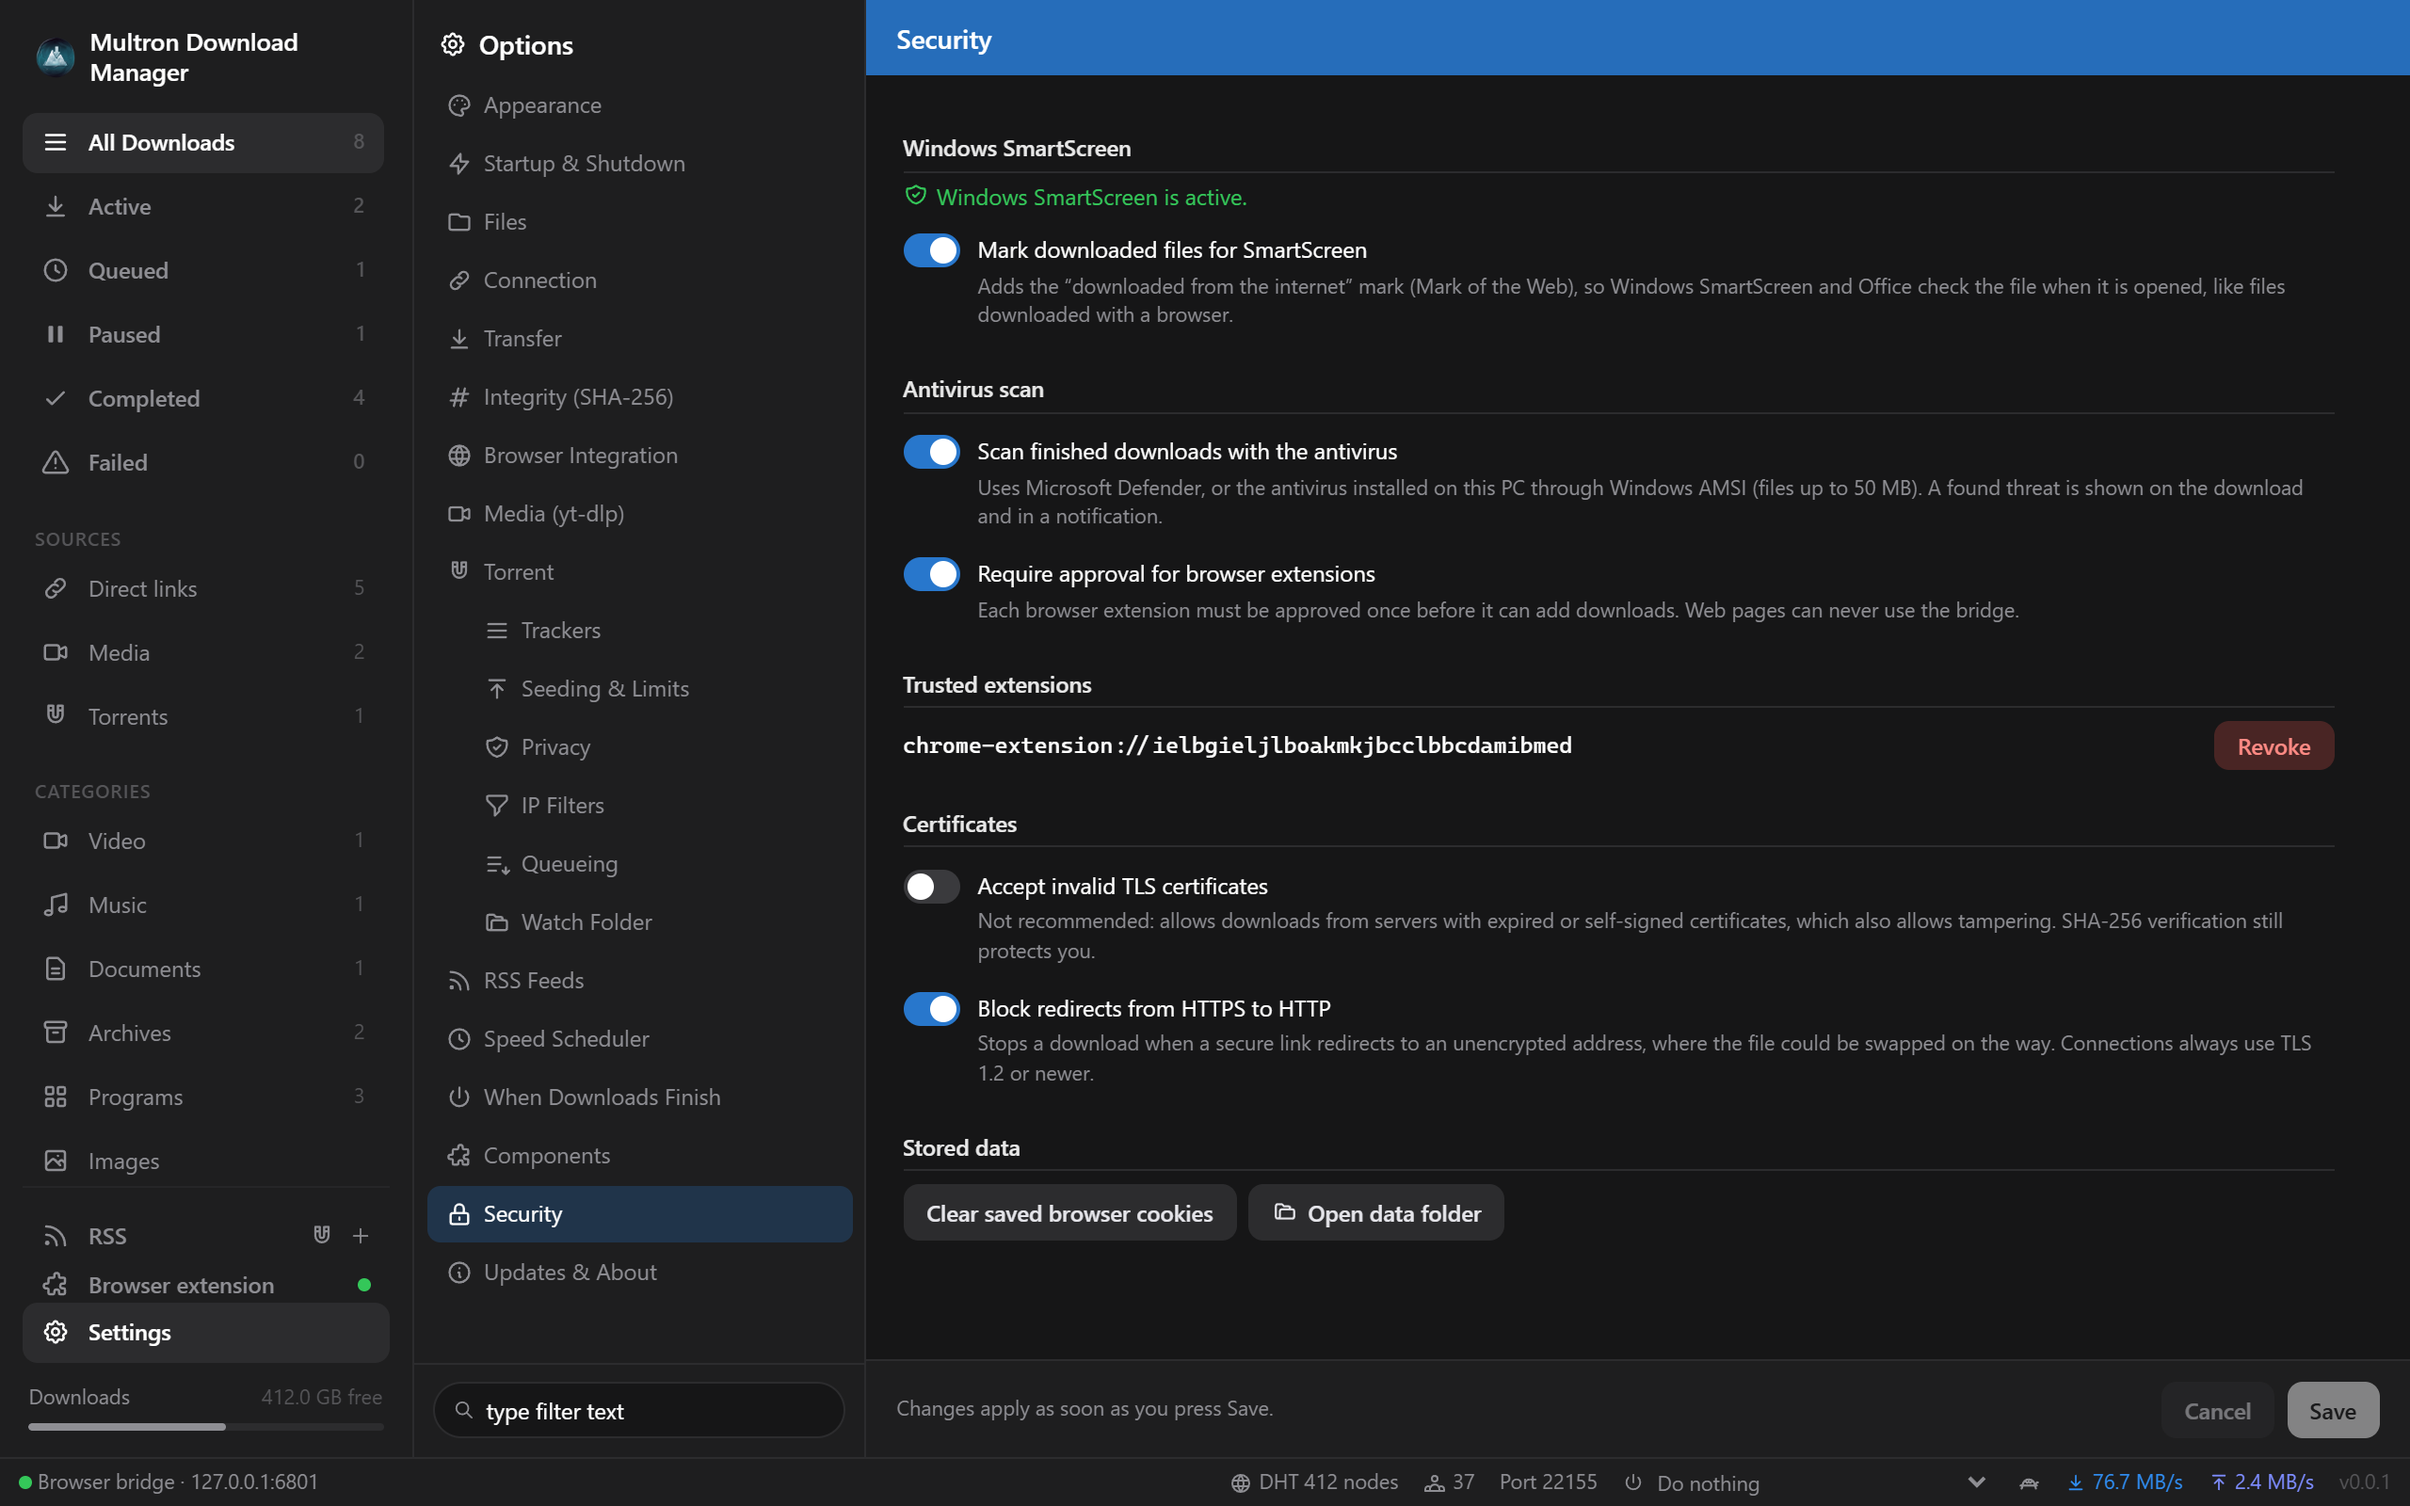
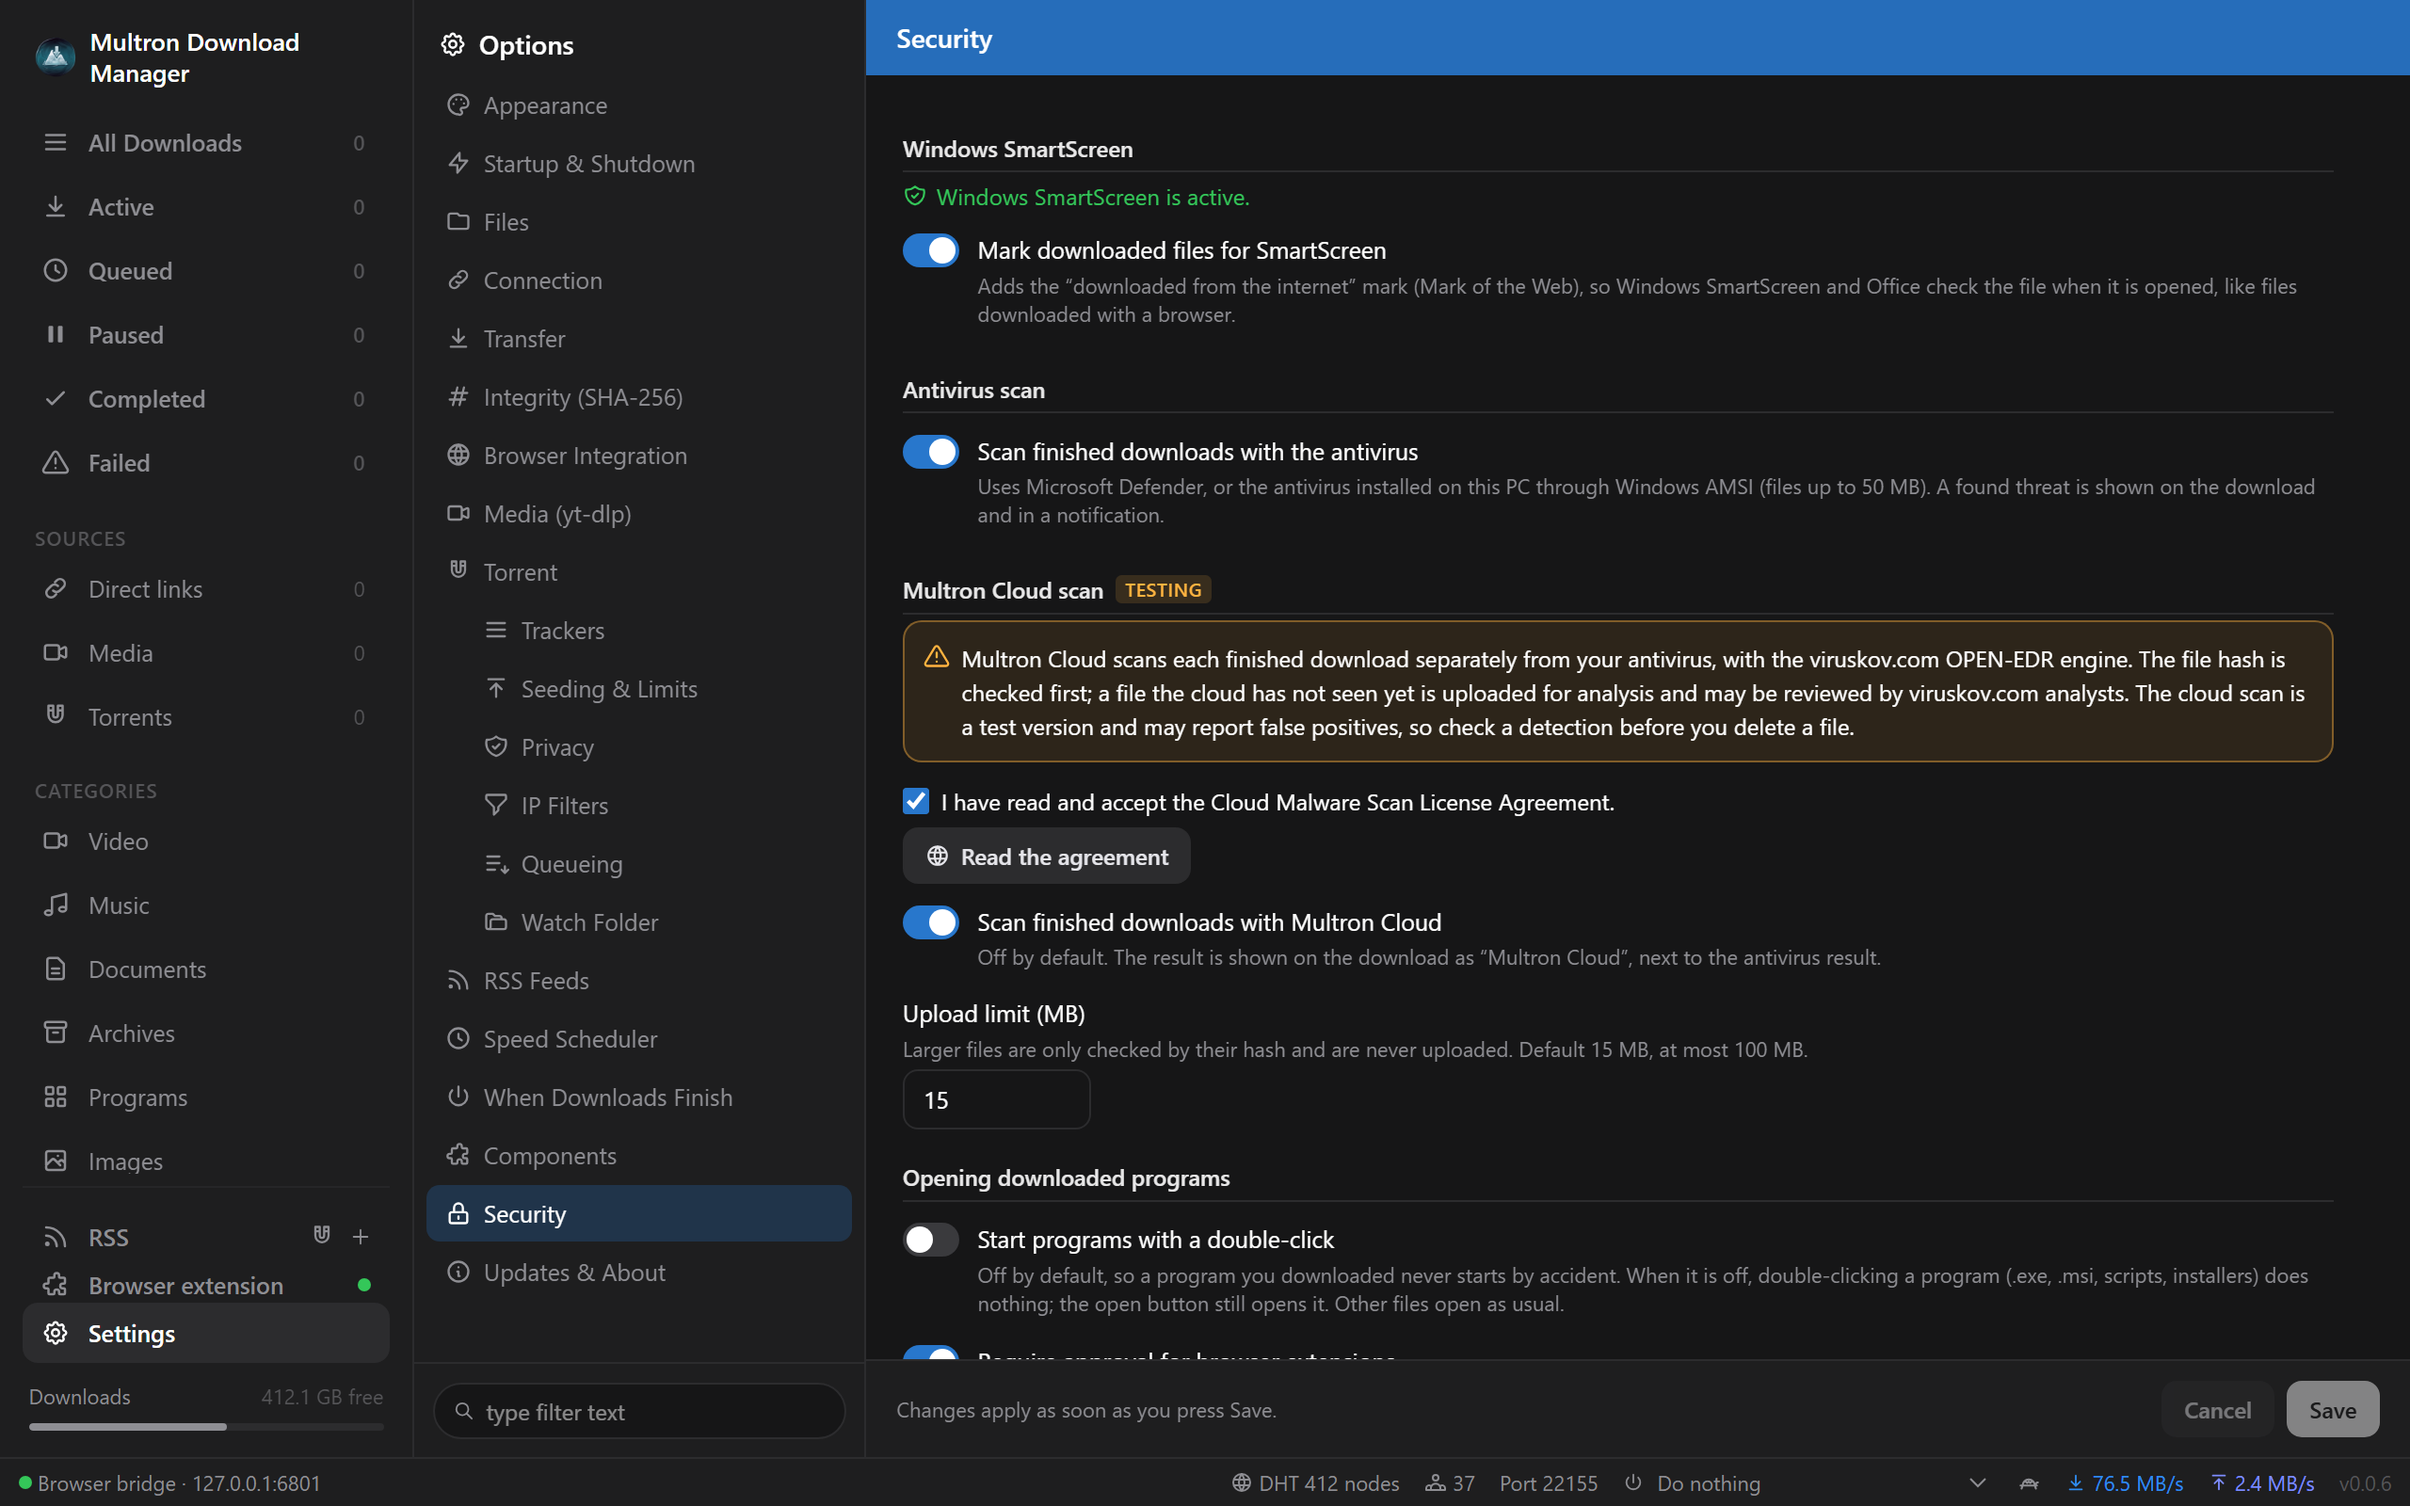
Update security screenshots version 0.0.6

diff --git a/README.md b/README.md
@@ -49,8 +49,8 @@
 |---|---|
 | <img src="docs/screenshots/downloads-dark.png" alt="Downloads with the segment view" /> | <img src="docs/screenshots/torrent-dark.png" alt="Torrent seeding with tracker, DHT and LSD sources" /> |
 | **Downloads** — every connection writes to its own range; the progress bar fills from start to end, and the *Segments* tab shows each connection’s range live. | **Torrents** — seeding with tracker, DHT and LSD sources, peers, pieces and more. |
-| <img src="docs/screenshots/settings-light.png" alt="Appearance settings in the light theme" /> | <img src="docs/screenshots/security-dark.png" alt="Security settings with SmartScreen, antivirus and TLS options" /> |
-| **Appearance** — light, dark or system theme, accent colours and transparency. | **Security** — SmartScreen mark, antivirus scan, extension approval, TLS and redirect rules. |
+| <img src="docs/screenshots/settings-light.png" alt="Appearance settings in the light theme" /> | <img src="docs/screenshots/security-dark.png" alt="Security settings with SmartScreen, antivirus, Multron Cloud scan and TLS options" /> |
+| **Appearance** — light, dark or system theme, accent colours and transparency. | **Security** — SmartScreen mark, antivirus scan, Multron Cloud scan (testing), safe opening of programs, extension approval, TLS and redirect rules. |
 | <img src="docs/screenshots/downloads-light-tr.png" alt="The app in Turkish with the light theme" /> | |
 | **12 languages** — follows the system language (Turkish shown here). | |
 
